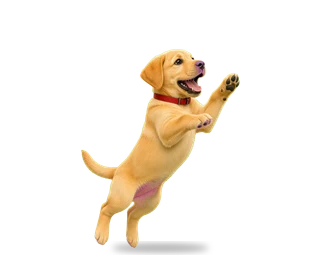
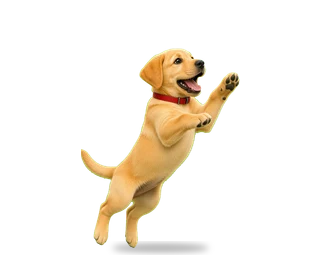
Add Bailey (photo dog), run animation, flip/keep-shadows options; hue-based green-screen keying
Claude-Session: https://claude.ai/code/session_01SPb2nHRXEdcJGy2z2XqmH9

diff --git a/src/main/bundle.ts b/src/main/bundle.ts
@@ -5,7 +5,7 @@ import { copyFileSync, existsSync, mkdirSync, readFileSync, statSync, writeFileS
 import { homedir } from 'node:os';
 import { join, extname } from 'node:path';
 
-export const KNOWN_ANIMATIONS = ['idle', 'walk', 'sit', 'sleep', 'watch', 'point', 'alert', 'happy', 'drag', 'rear', 'spin', 'trick'];
+export const KNOWN_ANIMATIONS = ['idle', 'walk', 'run', 'sit', 'sleep', 'watch', 'point', 'alert', 'happy', 'drag', 'rear', 'spin', 'trick'];
 export const REQUIRED_ANIMATIONS = ['idle', 'walk'];
 export const RECOMMENDED_ANIMATIONS = ['sit', 'sleep', 'watch', 'point', 'alert', 'happy', 'drag'];
 const FRAME_EXTENSIONS = new Set(['.svg', '.png', '.webp', '.gif']);
@@ -89,6 +89,7 @@ export function validatePack(manifest: unknown, get: FileGetter): Report {
   else if (m.facing === undefined) warn('"facing" is missing; the artwork is assumed to face right');
   if (m.feetOffset !== undefined && (typeof m.feetOffset !== 'number' || m.feetOffset < 0)) err('"feetOffset" must be a number of pixels >= 0');
   else if (m.feetOffset === undefined) warn('"feetOffset" is missing; 0 will be used, so the bottom of the frame is treated as the feet');
+  if (m.flip !== undefined && typeof m.flip !== 'boolean') err('"flip" must be true or false');
   if (m.edge !== undefined && m.edge !== 'bottom' && m.edge !== 'top') err('"edge" must be "bottom" or "top"');
   if (m.edge === 'top' && m.gripOffset === undefined) r.warnings.push('edge "top" without "gripOffset": the top of the frame will touch the top of the screen. Set gripOffset to the pixels between the frame top and the branch/hands.');
   if (m.gripOffset !== undefined && (typeof m.gripOffset !== 'number' || m.gripOffset < 0 || m.gripOffset > 1024)) err('"gripOffset" must be a number of pixels >= 0');

diff --git a/src/sim/buddy.ts b/src/sim/buddy.ts
@@ -38,6 +38,7 @@ export interface PendingAlert {
 const EDGE_MARGIN = 40;
 const RISE_SPEED = 260; // DIP/s when floating up to a guide point
 const FALL_SPEED = 700;
+const RUN_FACTOR = 2.2; // movement speed multiple from which a pack's "run" animation replaces "walk"
 const CLIMB_SPEED = 220; // a top-edge buddy climbs back up this fast after being dropped
 const HOVER_ABOVE_POINT = 28; // feet sit this far below the pointed-at target
 
@@ -577,7 +578,9 @@ export class Buddy {
 
   private currentFrame(): { animation: AnimationName; frame: number } {
     const anims = this.manifest.animations;
-    const name: AnimationName = anims[this.animation] ? this.animation : 'idle';
+    // A pack that has a "run" animation uses it instead of "walk" when moving fast.
+    const wanted: AnimationName = this.animation === 'walk' && this.moveFactor >= RUN_FACTOR && anims.run ? 'run' : this.animation;
+    const name: AnimationName = anims[wanted] ? wanted : 'idle';
     const def = anims[name]!;
     const total = def.frames.length;
     const raw = Math.floor(this.animTime * def.fps);

diff --git a/src/renderer/renderer.ts b/src/renderer/renderer.ts
@@ -192,7 +192,7 @@ function render(snapshot: WorldSnapshot): void {
     el.img.width = w;
     el.img.height = h;
     const artFacing = m.facing ?? 'right';
-    el.img.classList.toggle('flip', b.facing !== artFacing);
+    el.img.classList.toggle('flip', m.flip !== false && b.facing !== artFacing);
     el.img.classList.toggle('pixel', !!m.pixelArt);
     const lx = b.x - display.bounds.x - w / 2;
     const top = m.edge === 'top';
@@ -242,7 +242,8 @@ function render(snapshot: WorldSnapshot): void {
     if (b.pointer) {
       const px = b.pointer.x - display.bounds.x;
       const py = b.pointer.y - display.bounds.y;
-      const pawX = lx + (b.facing === 'right' ? w * 0.93 : w * 0.07);
+      // Art that is never mirrored has no "paw side": lead from the middle of the figure.
+      const pawX = lx + (m.flip === false ? w * 0.5 : b.facing === 'right' ? w * 0.93 : w * 0.07);
       const pawY = ly + h * 0.33;
       pointerParts.push(
         `<line class="lead" x1="${pawX}" y1="${pawY}" x2="${px}" y2="${py}"/>`,

diff --git a/src/shared/types.ts b/src/shared/types.ts
@@ -30,6 +30,7 @@ export interface ActiveWindowInfo {
 export type AnimationName =
   | 'idle'
   | 'walk'
+  | 'run'
   | 'sit'
   | 'sleep'
   | 'watch'
@@ -94,6 +95,8 @@ export interface BuddyManifest {
   edge?: 'bottom' | 'top';
   /** For edge "top": px (pre-scale) from the top of the frame to the point that sticks to the top of the screen. */
   gripOffset?: number;
+  /** Set false for art that must never be mirrored (a front-facing figure with text on it). Default true. */
+  flip?: boolean;
   /** Walking speed relative to the other buddies (0.1 to 3, default 1). A sloth is about 0.3. */
   speed?: number;
   /** Render frames with nearest-neighbour scaling (for PNG pixel art). */

diff --git a/docs/PHOTO-BUDDY.md b/docs/PHOTO-BUDDY.md
@@ -70,6 +70,7 @@ them feels alive. More frames in a loop = smoother, but 2 to 4 is enough.
 |---|---|---|
 | `idle-1`, `idle-2`, `idle-3`, `idle-4` **required** | 4 | Standing, relaxed. Tiny differences between frames: weight shifted, head slightly up/down, a blink in one frame, tail or hand in a slightly different place. |
 | `walk-1` ... `walk-6` **required** | 6 | A full walk cycle in side view, walking right. Frame 1 contact (front foot forward), 2 down, 3 passing (legs together), 4 contact on the other leg, 5 down, 6 passing. Same size and same body height as idle. |
+| `run-1`, `run-2` | 2 | Optional. A gallop in side view, used instead of walking when the buddy is sent somewhere in a hurry (`buddy alert --hurry`, fast speed). |
 | `sit-1`, `sit-2` | 2 | Sitting down, looking forward. Frame 2: head turned or a blink. |
 | `sleep-1`, `sleep-2` | 2 | Curled up or lying down asleep, eyes closed. Frame 2: body slightly higher (breathing). |
 | `watch-1`, `watch-2` | 2 | Standing or sitting, head turned and eyes up as if looking at a screen far above, attentive. |
@@ -155,6 +156,10 @@ Options that matter most:
 | `--tolerance 60` | Raise (80 to 100) if background remnants remain, lower (30 to 40) if the character's edge is eaten. |
 | `--registered` | Use when the character stands at the **same place in the camera frame in every image** (frames cut from one video, a fixed-camera render). Poses keep their relative position, so a hop stays a hop. Without it each frame is re-centred with its feet on the ground, which is what you want for separately generated stills. |
 | `--facing left` | Your art faces left. The buddy mirrors it as needed. |
+| `--flip walk-1,sit-1` | Some frames came out facing the other way. Mirrors just those frames so that all face `--facing`. |
+| `--keep-shadows` | Cast shadows on the background are removed by default (same hue, darker). Use this to keep them. |
+| `--keep-holes` | Keeps enclosed pockets of the background colour (for a character with green parts). By default a gap between the legs is cut out too. |
+| `--frame-scale idle-1=1.4` | One frame came out smaller or larger than the others. |
 | `--shadow` | Bakes a soft ground shadow under the feet. |
 | `--format webp --quality 88` | About 3x smaller files. |
 | `--size 384 --display 160` | A bigger buddy. |

diff --git a/README.md b/README.md
@@ -5,7 +5,7 @@ walks over to whatever window you are working in and watches it, sits down
 when you go idle, falls asleep if you stay away, and delivers alerts and
 on-screen guidance from your scripts, tools and timed reminders.
 
-Built with Electron + TypeScript for macOS and Windows ([Windows guide](docs/WINDOWS.md)). Nineteen buddies ship in the box,
+Built with Electron + TypeScript for macOS and Windows ([Windows guide](docs/WINDOWS.md)). Twenty buddies ship in the box,
 and you can have any AI design more for you (see
 [Make your own buddy with an AI](docs/CREATE-A-BUDDY.md)).
 
@@ -28,6 +28,7 @@ and you can have any AI design more for you (see
 | `peacock` | Plume | Chibi peacock with a shimmering blue body and a trailing train of eye-spot feathers that fans out when it is excited |
 | `toddler-trike` | Tilly | Cartoon toddler girl with pigtails and bows pedalling a pink tricycle (her legs follow the pedals); rings her bell on alerts and pops a wheelie on double-click |
 | `rex` | Rex | Photo-realistic Labrador puppy (made with the [photo pipeline](docs/PHOTO-BUDDY.md) from AI-generated frames) |
+| `bailey` | Bailey | Photo-realistic curly grey-and-white dog with a collar; trots, and breaks into a run when sent somewhere in a hurry |
 | `sloth` | Slowpoke | Three-toed sloth that hangs from the **top** edge of the screen and crawls hand over hand, very slowly; dropped, it climbs back up; double-click for a slow wave and a yawn |
 | `capybara` | Capy | Calm capybara with a blunt snout; double-click and it relaxes with a yuzu on its head and rising steam |
 
